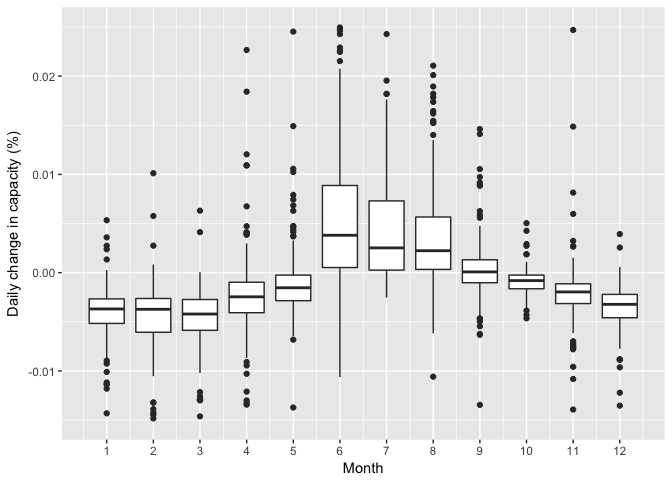
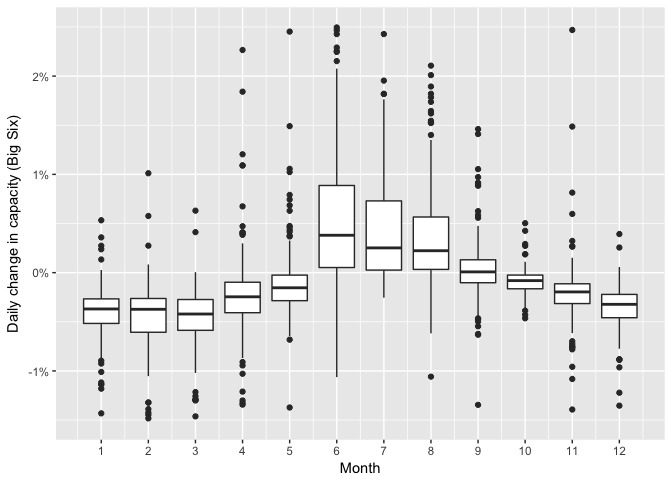
Misc corrections

diff --git a/Analysis_of_WC_Dam_Levels.md b/Analysis_of_WC_Dam_Levels.md
@@ -11,10 +11,8 @@ Load Dependencies
 ``` r
 library(tidyverse)
 library(lubridate)
-#library(ggthemes)
 library(knitr)
 library(forcats)
-#library(ggiraph)
 ```
 
 Data Import
@@ -43,7 +41,7 @@ StorageLong %>%
 |   10| Alexandra | 2012-01-10 |     95.8|       134|           0.7149254|             0.0001062|
 
 What are the largest dams and their capacities?
-===============================================
+-----------------------------------------------
 
 ``` r
 StorageLong %>% 
@@ -152,8 +150,8 @@ StorageLong %>%
   ggplot(aes(x=Month,y=ChangeInStorage)) +
   geom_boxplot(aes(group=Month)) +
   scale_x_continuous(breaks = 1:12) +
-  scale_y_continuous(limits = c(-0.015,0.025)) +
-  ylab("Daily change in capacity (%)")
+  scale_y_continuous(limits = c(-0.015,0.025),labels = scales::percent) +
+  ylab("Daily change in capacity (Big Six)")
 ```
 
 ![](Analysis_of_WC_Dam_Levels_files/figure-markdown_github/unnamed-chunk-7-1.png)
@@ -181,9 +179,6 @@ StorageLong %>%
 StorageLong %>% 
   arrange(desc(Capacity)) %>% 
   ungroup() %>% 
-  #mutate(Dam=str_replace_all(Dam,"[^[:alnum:]]", " ")) %>% 
-  #mutate(Dam=str_replace_all(Dam,"Vo Lvlei", "Voelvlei")) %>% 
-  #mutate(Dam=str_to_title(Dam)) %>% 
   mutate(Dam=fct_lump(fct_rev(fct_reorder(Dam,Capacity)),n=6,ties.method = "first")) %>% 
   filter(Dam!="Other") %>% 
   group_by(Date) %>% 
@@ -196,10 +191,6 @@ StorageLong %>%
 ```
 
 ![](Analysis_of_WC_Dam_Levels_files/figure-markdown_github/unnamed-chunk-9-1.png)
-
-``` r
-#ggsave()
-```
 
 ``` r
 StorageLong %>% 
